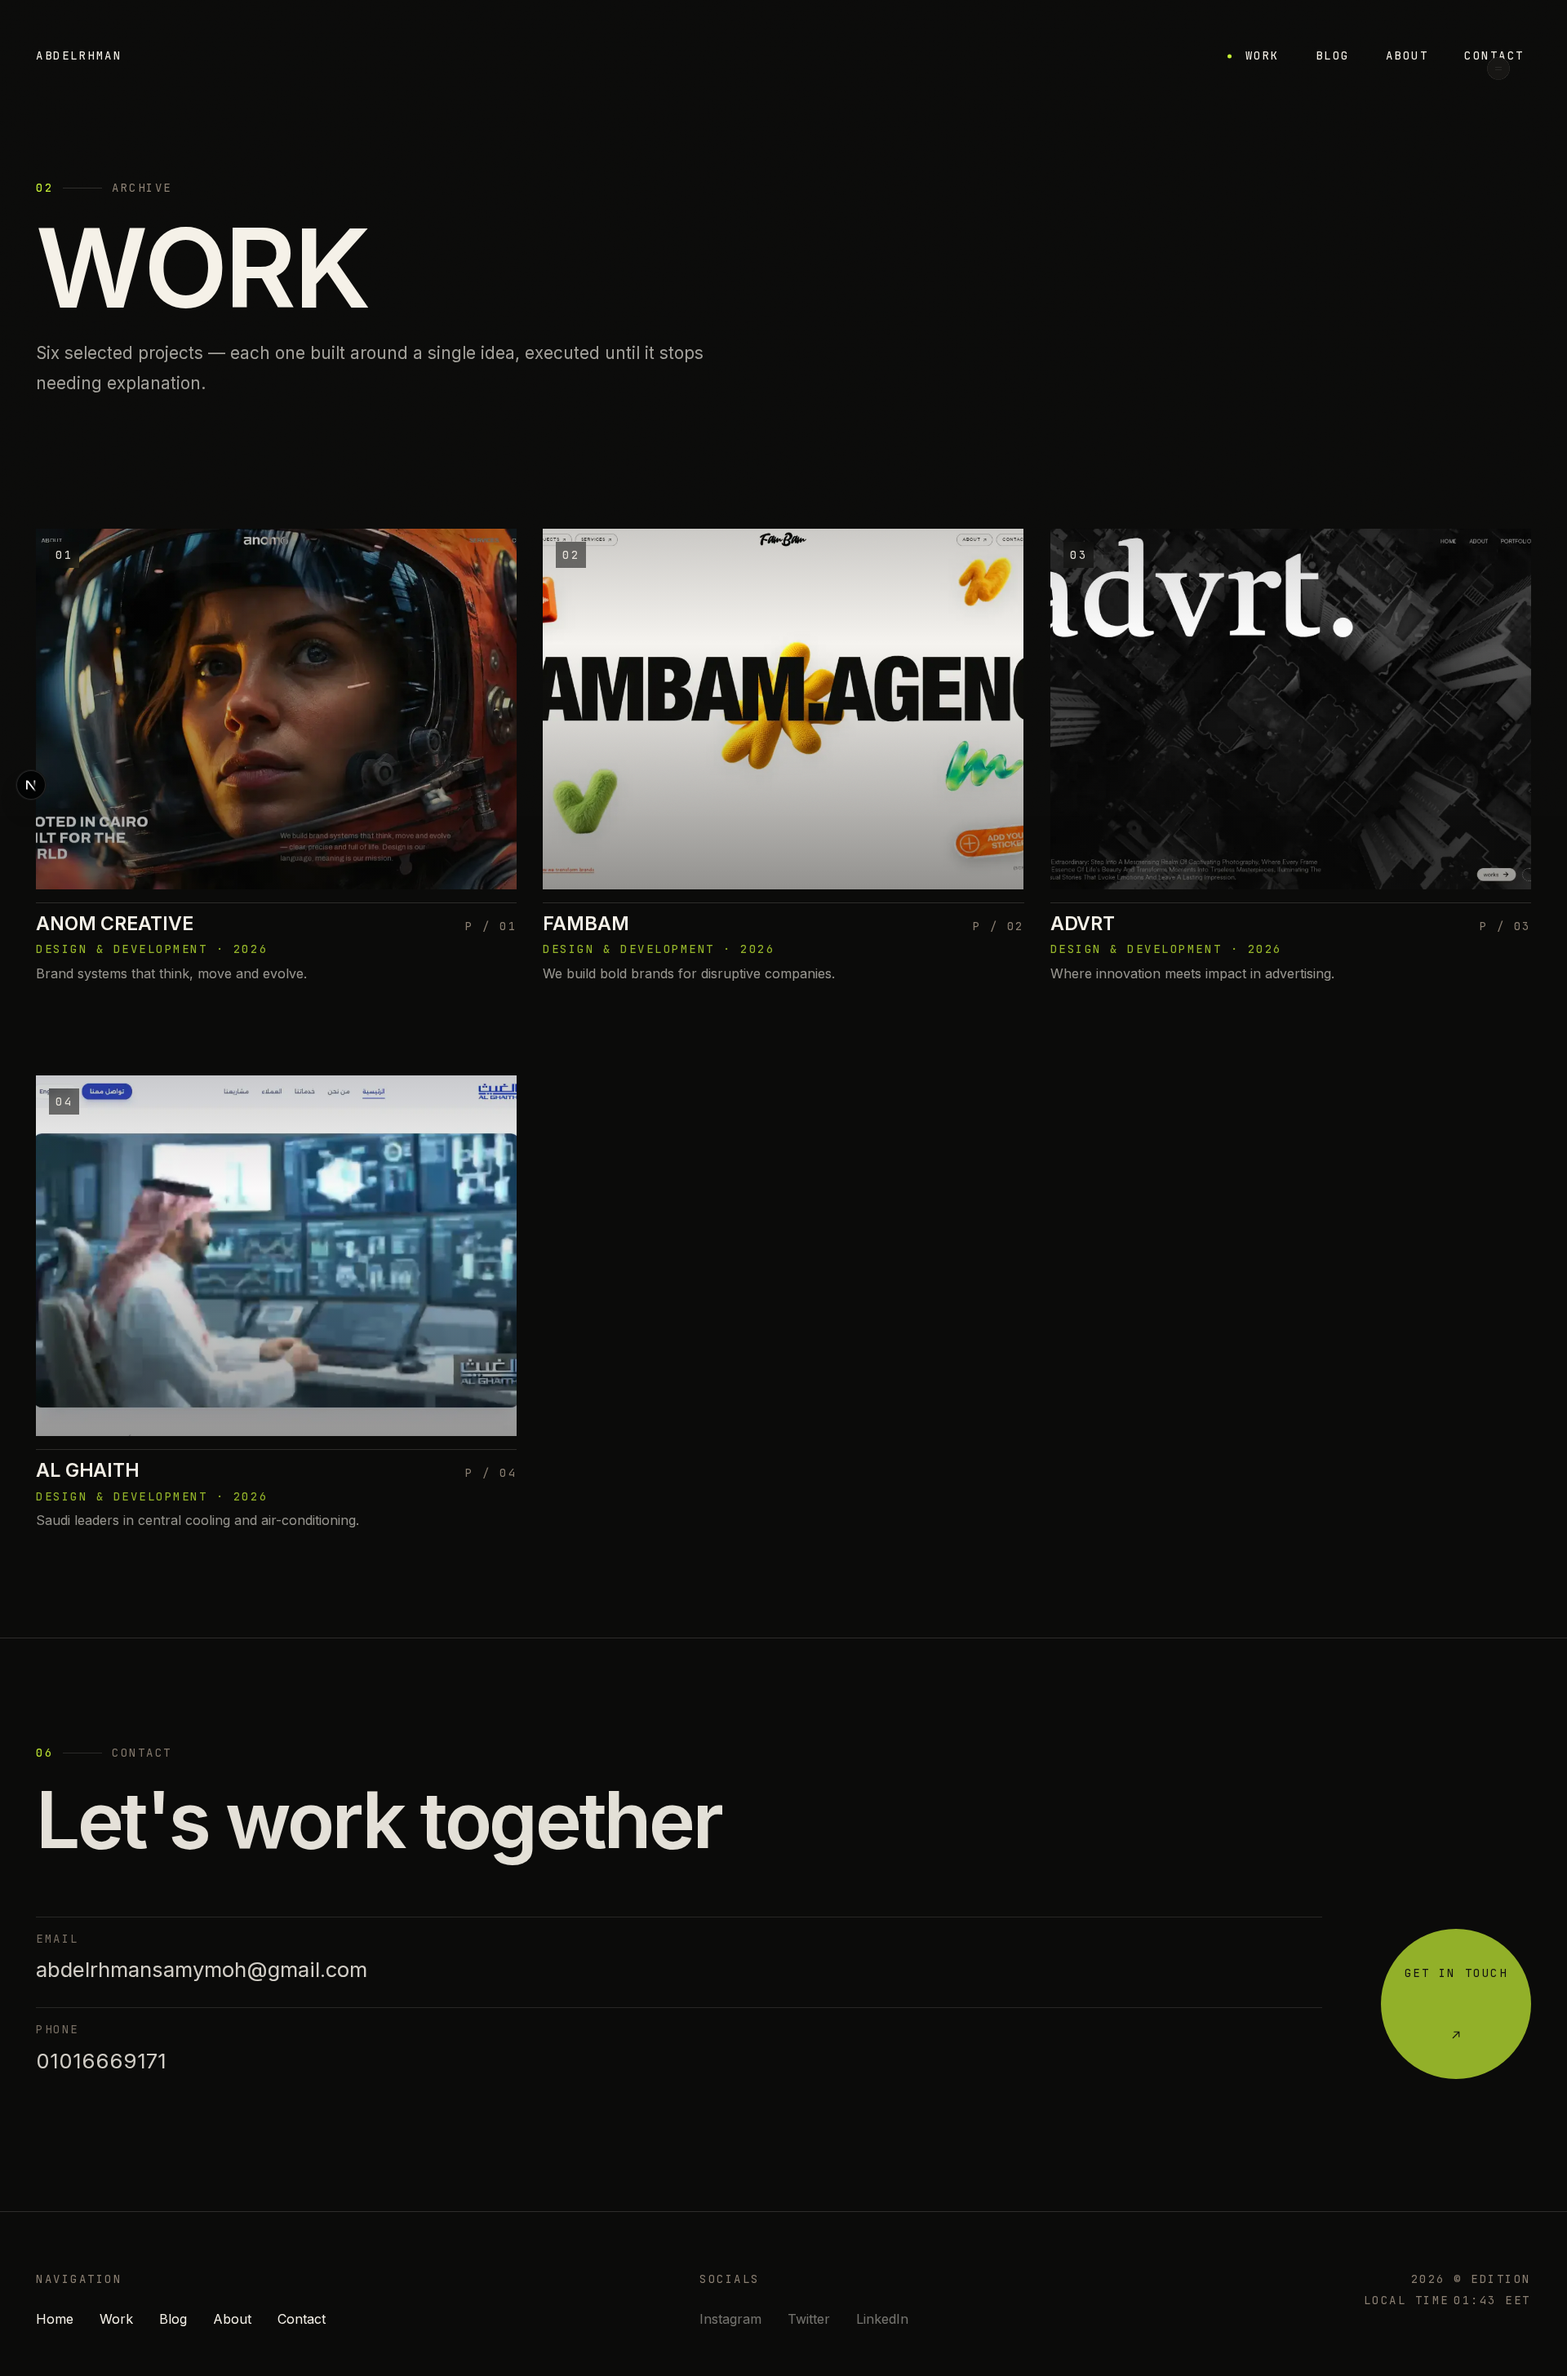
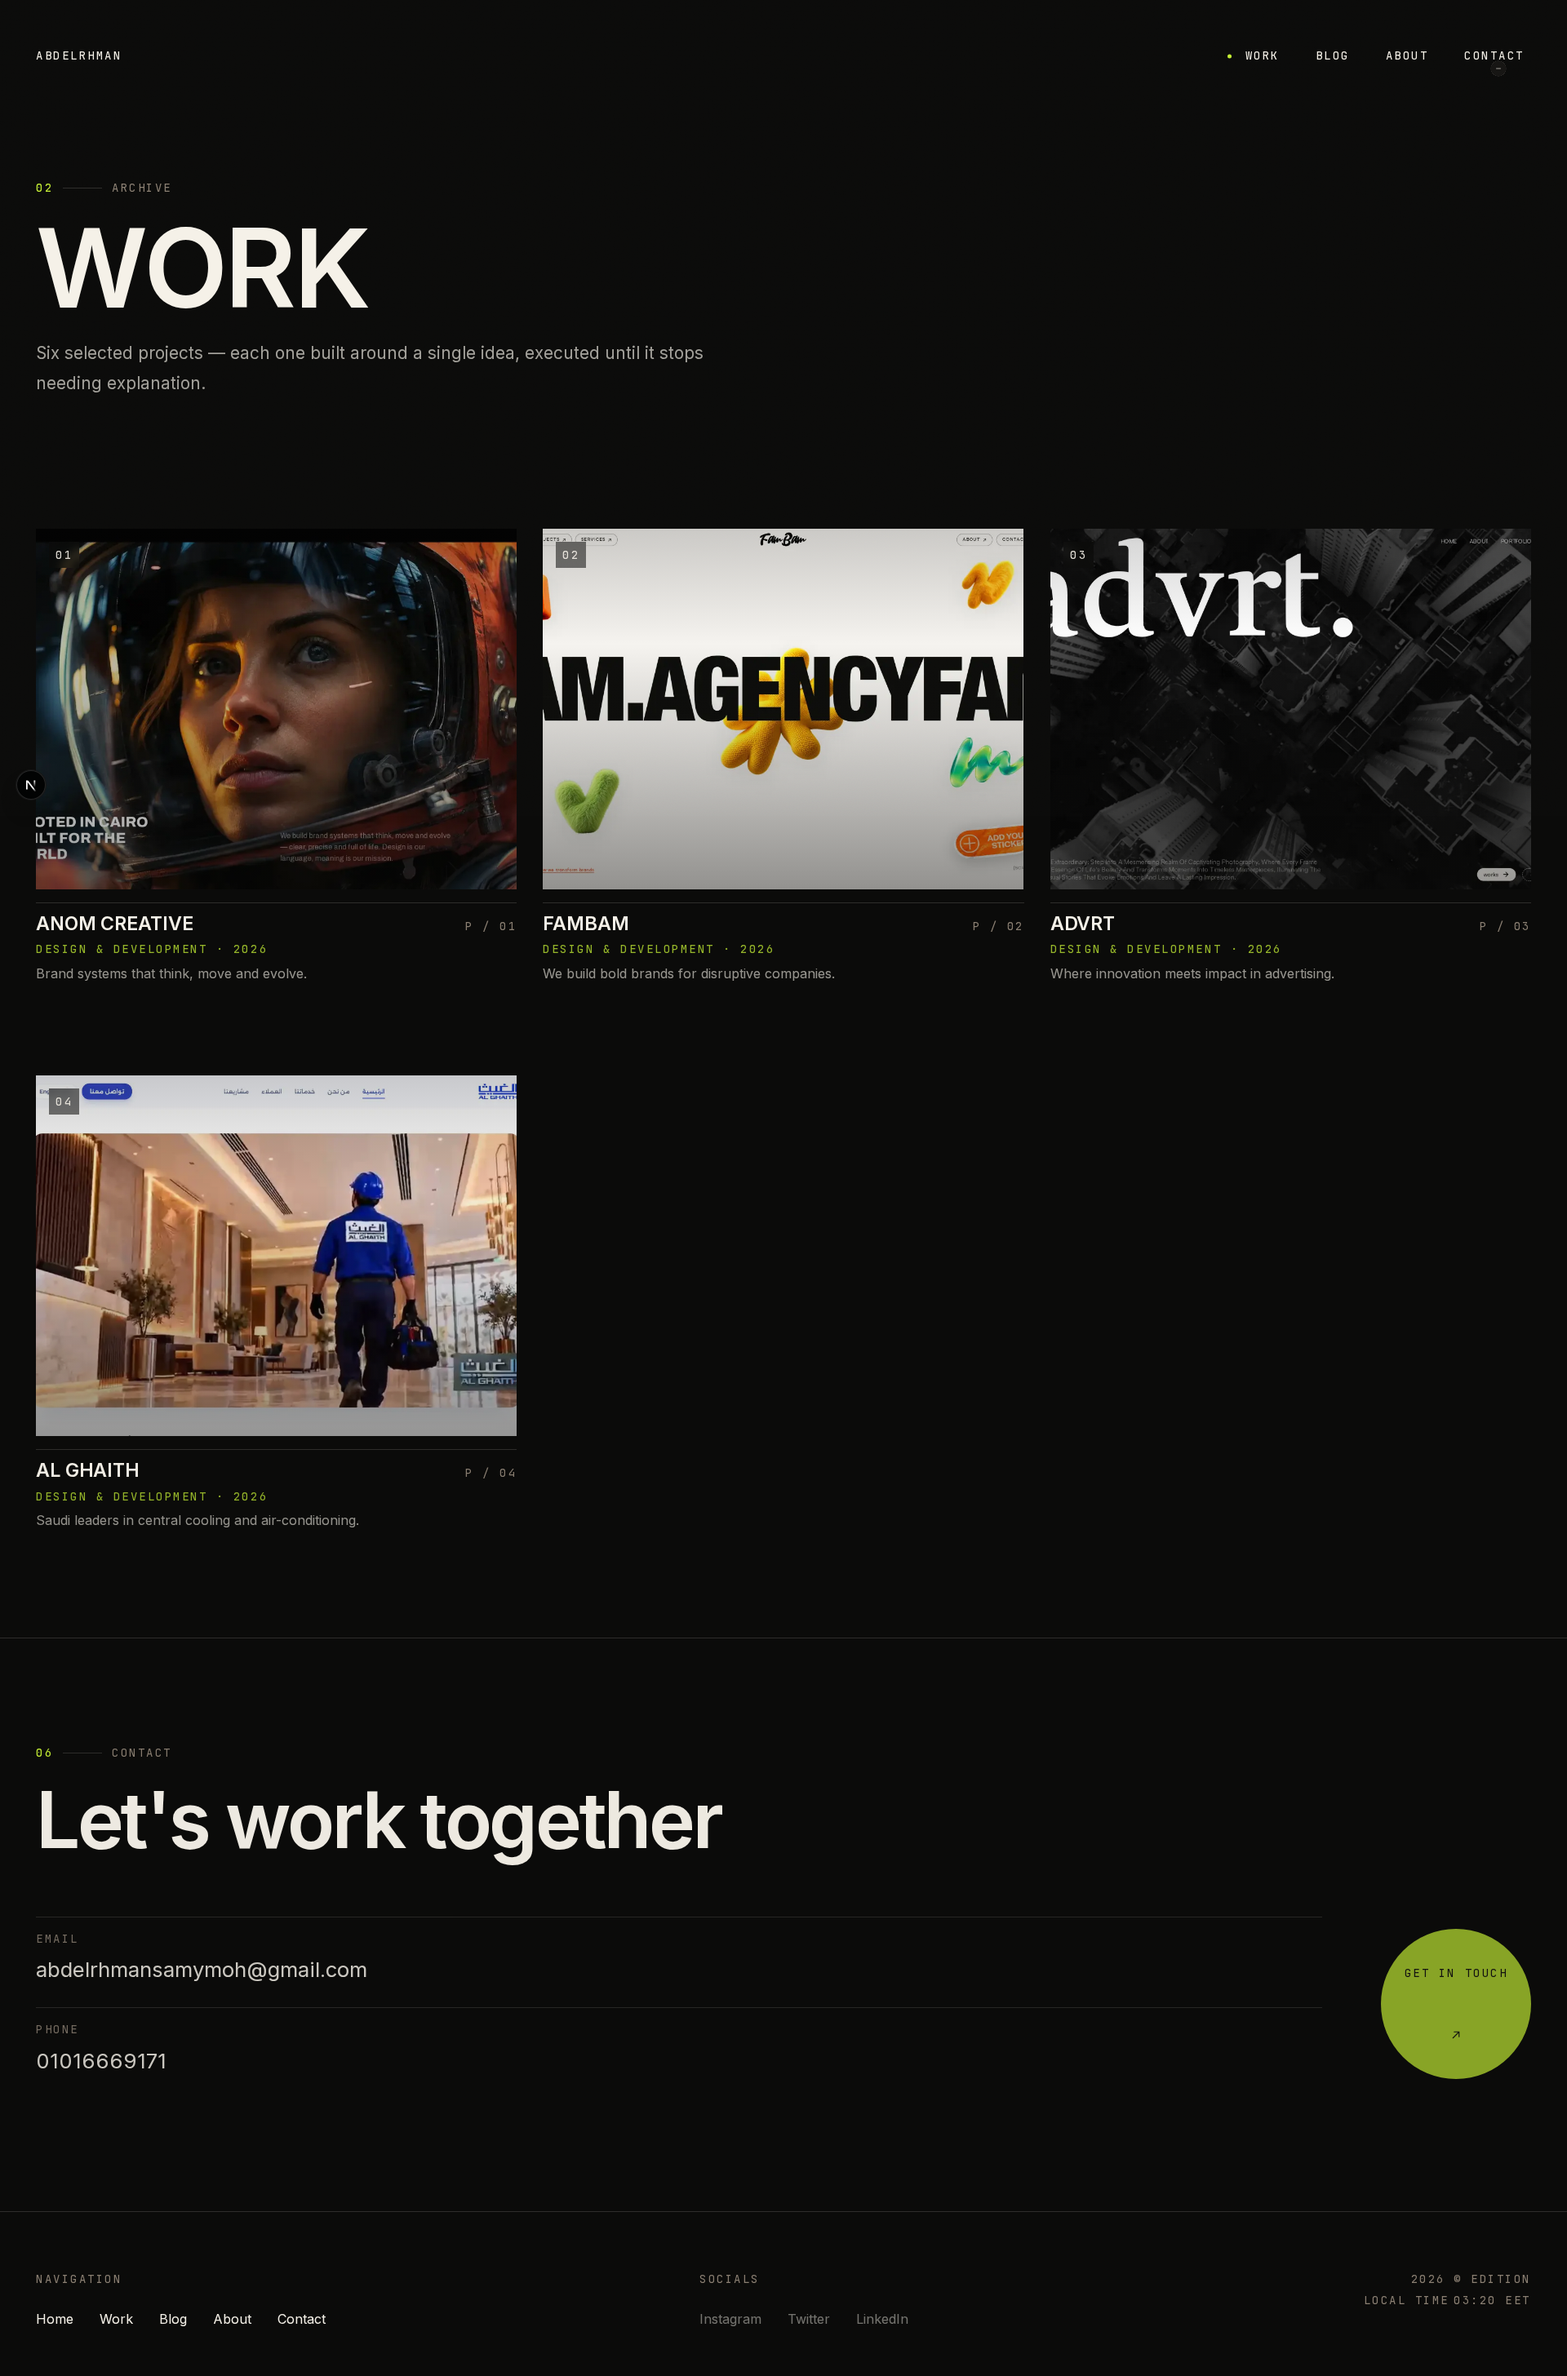
docs(work): record media showcase verification evidence

diff --git a/docs/superpowers/evidence/2026-11-15-media-showcase.md b/docs/superpowers/evidence/2026-11-15-media-showcase.md
@@ -1,0 +1,165 @@
+# Project media showcase — verification evidence
+
+**Date:** 2026-11-15
+**Branch:** `feat/portfolio-redesign`
+**Plan:** `docs/superpowers/plans/2026-11-15-project-media-showcase.md`
+**Spec:** `docs/superpowers/specs/2026-11-15-project-media-showcase-design.md`
+**Commits:** `5b91cd9` (capture pipeline + media), `6d5fd2a` (typed media
+stream), `5123552` (card crossfade), `615a592` (case-study stream), plus the
+final fixes and this evidence commit.
+
+## Change contract
+
+- **Scope:** project cards on Home and `/work`; case studies at
+  `/work/[slug]`; a re-runnable capture pipeline and its assets.
+- **Non-goals:** hero, about, contact, blog, navigation, footer, copy, theme.
+- **Risk:** MEDIUM. Presentation and client islands only, but the card is
+  shared by two routes and the hero has a documented compression contract.
+- **Blast radius:** the card component (hero contract), the case-study page,
+  `public/work`, and new client components (`ProjectVideo`, `Parallax`).
+- **Rollback:** revert the four feature commits; the media directory is
+  self-contained under `public/work/<slug>/`.
+
+## Environment
+
+- Node v26.11.1, pnpm 12.6.0
+- Next.js 16.4.6 (Turbopack dev), React 19.3.0, Tailwind 4.3.3
+- Playwright 1.65.0 (Chromium), Vitest 5.1.0
+- Sharp 0.35.5, ffmpeg n9.0.1 at `/usr/bin/ffmpeg`
+- Dev server: `pnpm dev --port 3000`
+
+## Commands run (real exit codes)
+
+| command | exit | result |
+|---|---|---|
+| `pnpm install` | 0 | already up to date |
+| `pnpm capture:work` | 0 | four slugs × seven files; size table printed |
+| `pnpm typecheck` | 0 | no errors |
+| `pnpm lint` | 0 | no findings |
+| `pnpm test` | 0 | 39/39 tests, 7 files |
+| `pnpm exec playwright test` | 0 | 38/38 tests, 4 files (1.2 m) |
+| `pnpm evidence` | 0 | `audit-shots/editorial/` refreshed |
+| Evidence Gate validate | 0 | PASS; all six criteria backed by recorded artifacts |
+
+Full logs from the recorded runs are under
+`.quality/runs/2026-11-15T01-00-39Z/artifacts/` (local, git-ignored).
+
+## Media budget
+
+| project | `hero.webp` | `scroll.webm` | video duration | ≤ 2 MB |
+|---|---:|---:|---:|---|
+| `anom-creative` | 183,568 B | 626,796 B | 9.96 s | yes |
+| `fambam` | 119,736 B | 457,114 B | 9.72 s | yes |
+| `advrt` | 147,930 B | 837,520 B | 21.44 s | yes |
+| `al-ghaith` | 149,090 B | 935,902 B | 23.28 s | yes |
+
+- Desktop stills: 2880×1800 (1440×900 @2x), WebP q82.
+- Mobile stills: 780×1688 (390×844 @2x), WebP q82.
+- Video: VP8, 1280×800, no audio; the slow scroll loop takes longer on the
+  heavier `advrt`/`al-ghaith` pages.
+- Largest video: 935,902 B (0.89 MiB), under the 2,097,152 B budget.
+
+## Acceptance criteria coverage
+
+| id | status | proof |
+|---|---|---|
+| AC-01 | COVERED | e2e: card crossfade + two captures on every card on `/` and `/work`; `audit-shots/media-showcase/home-card-hover-1440.png` |
+| AC-02 | COVERED | e2e: `.browser-frame` ×4, real hostname, `.phone-trio img` ×3, Visit-site pill href/target; `phone-trio-1440.png`, `phone-trio-390.png` |
+| AC-03 | COVERED | e2e: muted/loop/playsinline, plays in view, pauses at footer, never plays under reduced motion; `video-playing-1440.png` |
+| AC-04 | COVERED | e2e: 0 px overflow at 360/390 on `/`, `/work`, `/work/anom-creative`; `overflow-390-home.png`, `overflow-390-work.png` |
+| AC-05 | COVERED | typecheck, lint, unit, full Playwright all exit 0; `pnpm evidence` refreshed `audit-shots/editorial/` |
+| AC-06 | COVERED | `tests/hero-liquid-compression.spec.ts` unchanged, 7/7 pass; `hero-card-compression-1440.png` |
+
+No criterion is `PARTIAL` or `UNCOVERED`.
+
+## Screenshots
+
+Refreshed by `pnpm evidence` (all widths, all routes):
+
+- `audit-shots/editorial/{390,768,1440,1920}-home.png`
+- `audit-shots/editorial/{390,768,1440,1920}-work.png`
+- `audit-shots/editorial/1440-project-anom.png` (and 390)
+- `audit-shots/editorial/hero-hover.png`, `reduced-motion.png`,
+  `contact-states.png`, `contact-success.png`
+
+Manual states for this feature (`audit-shots/media-showcase/`):
+
+- `home-card-hover-1440.png` — Home card after hover; the second capture
+  (`mid-1.webp`) is the visible layer.
+- `phone-trio-1440.png` — case-study phone trio, middle screen raised.
+- `phone-trio-390.png` — the same section at 390 px.
+- `video-playing-1440.png` — the scroll recording mid-playback inside the
+  browser frame.
+- `overflow-390-home.png`, `overflow-390-work.png` — 390 px routes with the
+  measured overflow printed as 0 by the capture script.
+- `hero-card-compression-1440.png` — hero compressing around a visible
+  project card (`data-compression-kind="project"`).
+
+`audit-shots/editorial/1440-home-card-hover.png` is a pre-existing artifact
+not produced by the current evidence script and is not cited as evidence.
+
+## Review
+
+Independent adversarial review (fresh context, full diff `86cea06..615a592`):
+no Critical or High findings.
+
+Fixed in one pass:
+
+- The 78 %-wide mid-2 capture requested `sizes="100vw"` because the offset
+  class lived on the `Reveal`, not `MediaBlock`. The offset moved onto the
+  media block; the image now requests `(min-width: 1024px) 80vw, 100vw`, and
+  a test pins it. Probe before the fix: `sizes=100vw`; after: `80vw`.
+- AC-04 coverage was case-study-only. Added `/` and `/work` overflow tests at
+  360 and 390 px.
+- Added card-wide coverage (two captures on every card on both routes) and a
+  reduced-motion parallax assertion (`transform: none`).
+
+Deferred minors: `will-change-opacity` computes to `auto` (inert Tailwind
+utility); `ProjectVideo` cleanup disconnects the observer without an explicit
+`pause()`.
+
+## Rulings and deviations
+
+- **Capture viewport:** the plan's `newContext({ width, height })` is not a
+  Playwright viewport option; used `viewport: DESKTOP | MOBILE`. Without it
+  every still was 2560×1440. Verified 2880×1800 / 780×1688.
+- **Video trim:** trim the pre-scroll idle segment (`-ss`, 0.3 s guard).
+  Three sites recorded 28–54 s of loading screen and `al-ghaith` exceeded
+  2 MB; the spec asks for a scroll-through and a ≤ 2 MB budget.
+- **Parallax:** reduced from ±5 % / scale 1.12 to ±2 % / scale 1.04. The
+  prescribed overscan cropped ~86 px per side at 1440 and cut the captures'
+  own text and margins; 1.04 covers ±2 % exactly. The drift is subtler.
+- **`MediaBlock.url`:** optional, because `Project.url` is optional; an
+  absent URL renders an empty address bar.
+- **Test typing:** `evaluate` callbacks annotated as `HTMLVideoElement`;
+  Playwright otherwise infers `HTMLElement` and `pnpm typecheck` fails.
+- **`BrowserFrame` content:** `relative overflow-hidden`, so the parallax
+  crop clips at the content edge instead of painting over the chrome.
+- **Stream grid:** `grid-cols-[minmax(0,1fr)]`; the implicit `auto` track took
+  the items' 384.3 px min-content and overflowed 360/390 px by 18 px.
+- **Viewport tests:** one `test.describe` per width; looped `test.use`
+  options merge within a suite and both tests would run at the last width.
+- **No `transform: scale()` fallback on `Parallax`:** GSAP owns `transform`
+  for the yPercent scrub; the separate `scale` property is deliberate.
+
+## Known limitations
+
+- Captures are live-site snapshots. Re-run `pnpm capture:work` when a site
+  changes; the sync test fails if the catalogue and targets drift.
+- One repeat of the combined manual-capture script failed on a video timing
+  wait; the criterion-specific capture script passed and its artifact is
+  valid (`video-playing-1440.png`). This was a capture-tool wait, not a
+  product failure.
+- The Next.js dev indicator ("N") appears in screenshots taken against
+  `pnpm dev`; it is not part of the production page.
+
+## Evidence Gate
+
+```
+node /home/abdelrhman/.config/opencode/skills/software-factory/bin/evidence-gate.cjs \
+  validate .quality/runs/2026-11-15T01-00-39Z/evidence-manifest.json
+→ Result: PASS (exit 0)
+```
+
+The manifest and per-criterion logs are local quality artifacts (`.quality/`
+is git-ignored); every cited screenshot is committed under `audit-shots/`.

diff --git a/docs/superpowers/specs/2026-11-15-project-media-showcase-design.md b/docs/superpowers/specs/2026-11-15-project-media-showcase-design.md
@@ -103,18 +103,19 @@ Close       "Visit site" link · Next project (existing NextProject)
 
 ## Acceptance criteria
 
-1. Every card (Home selected work + `/work` archive) shows two captures and
-   crossfades between them on hover/focus-visible in ~450 ms.
-2. Every case study renders: browser-framed hero (address bar shows the real
-   hostname), one muted looping scroll video, three phone-framed mobile
-   captures, two mid-page browser frames, "Visit site" pill, Next project.
-3. Video: plays only in viewport, pauses off-screen, never plays under
-   `prefers-reduced-motion: reduce`.
-4. No horizontal overflow at 360/390 px on any touched route.
-5. `pnpm typecheck`, `pnpm lint`, `pnpm test`, `pnpm exec playwright test`
-   all pass; evidence screenshots recorded.
-6. The hero compression test (`tests/hero-liquid-compression.spec.ts`) still
-   passes unchanged.
+1. **AC-01** — Every card (Home selected work + `/work` archive) shows two
+   captures and crossfades between them on hover/focus-visible in ~450 ms.
+2. **AC-02** — Every case study renders: browser-framed hero (address bar
+   shows the real hostname), one muted looping scroll video, three
+   phone-framed mobile captures, two mid-page browser frames, "Visit site"
+   pill, Next project.
+3. **AC-03** — Video: plays only in viewport, pauses off-screen, never plays
+   under `prefers-reduced-motion: reduce`.
+4. **AC-04** — No horizontal overflow at 360/390 px on any touched route.
+5. **AC-05** — `pnpm typecheck`, `pnpm lint`, `pnpm test`,
+   `pnpm exec playwright test` all pass; evidence screenshots recorded.
+6. **AC-06** — The hero compression test
+   (`tests/hero-liquid-compression.spec.ts`) still passes unchanged.
 
 ## Out of scope
 
